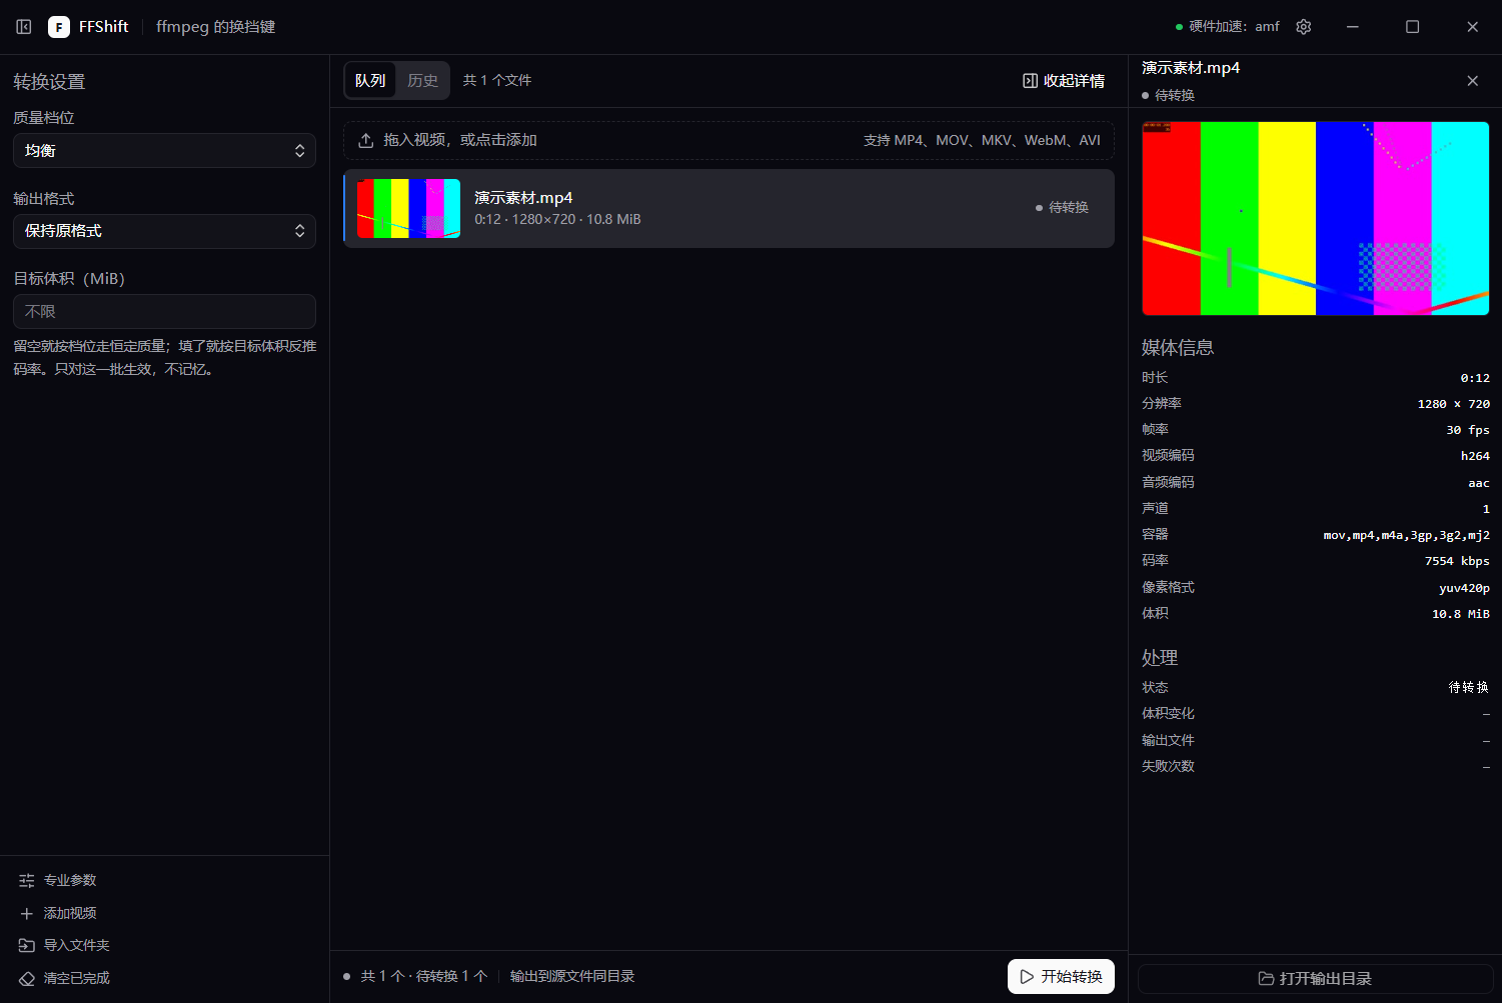
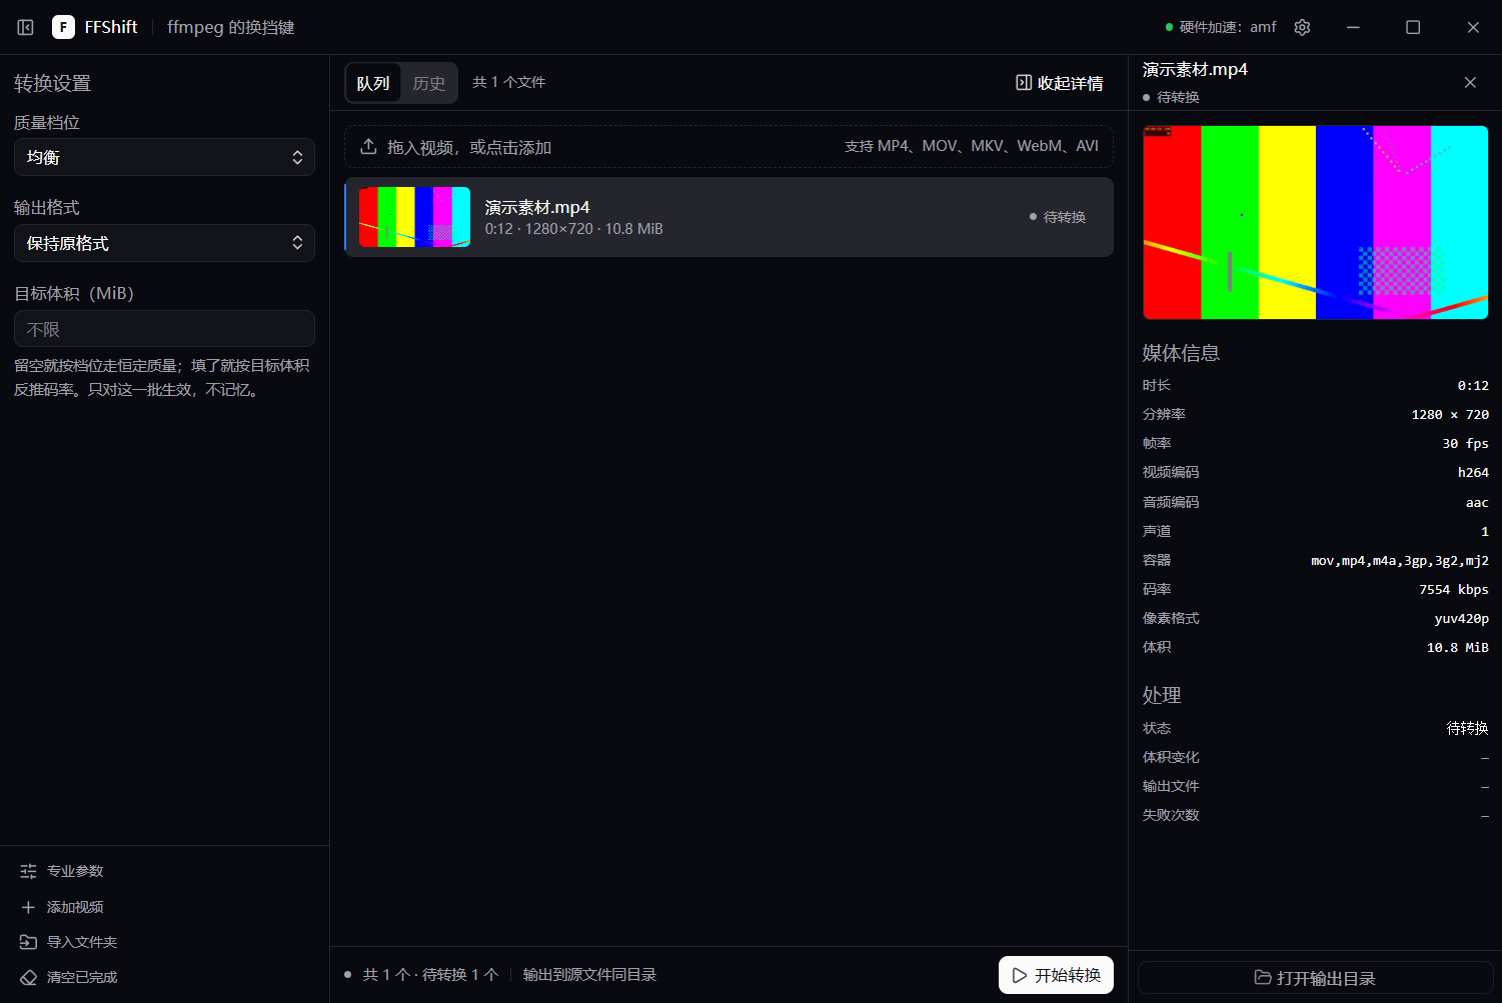
docs: 默认值定成浅黑 + 15px 的取舍与同步
ADR-021：浅黑加进来之后，只有主动去设置里翻的人才能看到它；作为默认才能让
每个新用户都拿到这套观感。字号提到 15 与之配套——浅黑的底比亮色深，字再小
一档就偏紧。

把"改默认值要动多少地方"记进反馈：两个常量之外还有 argv 兜底（那份重复不能
用 import 消掉，靠单测钉住）、三份文档、两条端到端断言。

openspec 用两条 MODIFIED 把设置规格里的默认值同步掉。本轮端到端套件按需求方
要求未执行，断言已更新并在 testing.md 里如实标注。

验证：pre-commit 文风检查通过；openspec 归档通过

Refs: ADR-021

diff --git a/docs/design-system.md b/docs/design-system.md
@@ -2,7 +2,7 @@
 
 > 构建界面前先读本文件：颜色、字体、间距、动效、组件规范都在这里，界面实现以它为准。
 > 上一版（v0.app 的三栏方案 + 四层底色）由本版整体替代，取舍过程见 `docs/decisions.md` ADR-015；
-> 主题从"只有暗色"改成"亮暗两套、默认亮色"，见 ADR-016。
+> 主题从"只有暗色"到"三套（默认浅黑）"的演变见 ADR-016 / ADR-020 / ADR-021。
 
 **来源与调整（如实标注）**
 
@@ -36,13 +36,13 @@ EnsoCode 把这条做到了极致，本项目直接跟进：
 
 ## 主题
 
-三套：**亮色（默认）**、**浅黑**、**暗色**。按明度从高到低排，切换入口在设置的「外观」里（ADR-018 之后顶栏没有切换按钮）。
+三套：**浅黑（默认）**、**亮色**、**暗色**。按明度从高到低排，切换入口在设置的「外观」里（ADR-018 之后顶栏没有切换按钮）。
 
 | 项 | 做法 |
 | --- | --- |
 | 切换方式 | 在 `<html>` 上挂类名：亮色是根状态（不带类）、浅黑挂 `dim`、暗色挂 `dark`。切换时**先摘干净再挂**（`src/lib/theme.ts` 的 `applyTheme`），不让两个类同时在 |
 | 令牌 | `:root` 亮色 + `.dim` + `.dark` 三段；命名完全一致，组件层一行都不用改 |
-| 默认 | 亮色。`DEFAULT_SETTINGS.theme = 'light'`，旧设置文件里没有这个字段时也回落成亮色 |
+| 默认 | 浅黑。`DEFAULT_SETTINGS.theme = 'dim'`，旧设置文件里没有这个字段时也回落成浅黑 |
 | 记忆 | 存进 `settings.json`；选过就记住 |
 | 首帧不闪 | 主进程在建窗口**之前**读设置，把主题塞进渲染进程的 argv（`--ffshift-theme=`），`main.tsx` 在 `createRoot` 之前挂类名。窗口底色也用当前主题的 `--background` 等价值 |
 | 组件层 | **不写 `dark:` 这类变体**。Tailwind 的 `dark:` 默认跟的是 `prefers-color-scheme`，也就是**系统**配色，不是应用里选的主题——需要随主题变的底色一律走语义令牌（如 `--field`） |
@@ -51,7 +51,7 @@ EnsoCode 把这条做到了极致，本项目直接跟进：
 前景从纯白收到 0.93，整体对比降一档，适合长时间盯着看。代价是**状态色必须重新挑**——
 底色变浅之后暗色那套的 `info` 压上去只有 3.76:1，不过线。
 
-没有"跟随系统"：默认亮色是产品要求，跟随系统与它冲突。要做就得是四态。
+没有"跟随系统"：跟着系统走的话，同一台机器今天亮明天暗，截图与文档对不上。要跟的话也是第四个选项。
 
 ## 全局 Token
 
@@ -129,17 +129,17 @@ Tailwind 的 `dark:` 默认跟的是 `prefers-color-scheme`（系统配色），
 
 ### 字体
 
-- 正文 `text-sm`（14px 基准下 = 12.25px）／元信息 `text-xs`（10.5px）／**小节标题** `text-label`（10px）／
-  **机器产生的数字** `text-metric`（11px） + `tabular-nums`。
+- 正文 `text-sm`（15px 基准下 = 13.1px）／元信息 `text-xs`（11.3px）／**小节标题** `text-label`（10.7px）／
+  **机器产生的数字** `text-metric`（11.8px） + `tabular-nums`。
 - `text-label` 与 `text-metric` 是 rem 令牌而不是 px：它们要跟着字号设置一起放大（ADR-019）。
   写死 px 的话，选"更大"档的人会看见正文大了、标签没大。
-- 按钮与下拉在窄窗口用 14px，`sm:` 以上收到 12.25px——桌面窗口远宽于 640px，所以实际生效的是后者。
+- 按钮与下拉在窄窗口用 15px，`sm:` 以上收到 13.1px——桌面窗口远宽于 640px，所以实际生效的是后者。
 - 数字统一 `font-variant-numeric: tabular-nums`：进度、体积、码率、耗时对齐后才能扫读。
 - 路径、编码名、日志用 `font-mono`（`JetBrains Mono` → `Consolas` → `ui-monospace`）。
 - 小节标题固定配方：`text-label font-medium tracking-wide text-muted-foreground uppercase`。
 
 **根字号 `--font-size-base` 是用户可调的**（设置 → 外观 → 字号，10–24px 逐像素可选，默认 14）。
-也就是 **1rem = 14px、0.25rem = 3.5px** 是默认值而不是常数：`h-8` = 28px、`gap-2` = 7px、`px-3` = 10.5px，
+也就是 **1rem = 15px、0.25rem = 3.75px** 是默认值而不是常数：`h-8` = 30px、`gap-2` = 7.5px、`px-3` = 11.25px，
 字号调大这些全部等比变大。所以写尺寸时先想清楚这一处**该不该跟着缩放**：
 
 | 该缩放（写 rem / Tailwind 数值） | 不该缩放（写死像素） |
@@ -161,7 +161,7 @@ Tailwind 的 `dark:` 默认跟的是 `prefers-color-scheme`（系统配色），
 
 ### 尺寸阶梯（本项目实际值）
 
-除标了「固定」的，其余都随字号设置等比缩放；括号里是 14px 基准下的像素值。
+除标了「固定」的，其余都随字号设置等比缩放；括号里是 15px 基准（默认）下的像素值。
 
 | 元素 | 尺寸 |
 | --- | --- |
@@ -257,7 +257,7 @@ Tailwind 的 `dark:` 默认跟的是 `prefers-color-scheme`（系统配色），
 2. **底栏只有一条**。上游是"输入框（Composer）+ 状态行（StatsLine）"两条，因为它的主动作是发消息。
    本项目的主动作（开始转换）只作用于队列，单独占一行会空掉半行，所以合成一条：
    左边是机器给的数字，右边是唯一的主按钮。
-3. **主题默认亮色**。上游 `:root` 是亮色、`.dark` 是暗色，但它的应用跟着系统走；
+3. **主题默认浅黑**。上游 `:root` 是亮色、`.dark` 是暗色，但它的应用跟着系统走；
    本项目是显式的两态切换，默认亮色（ADR-016）。
 
 ## 交付自检

diff --git a/openspec/changes/archive/2026-09-23-change-default-appearance/specs/settings/spec.md b/openspec/changes/archive/2026-09-23-change-default-appearance/specs/settings/spec.md
@@ -1,28 +1,4 @@
-# settings Specification
-
-## Purpose
-TBD - created by archiving change 2026-09-23-add-settings-page. Update Purpose after archive.
-
-## Requirements
-
-### Requirement: 设置页
-
-系统 SHALL 提供独立的设置界面，入口 SHALL 在主界面顶栏的右上角，并 SHALL 能返回转换界面。设置界面 SHALL 按分类组织内容：输出、参数预设、外观、关于。设置页与转换界面 SHALL 不同屏显示。
-
-#### Scenario: 打开设置
-
-- **WHEN** 用户在转换界面点击顶栏的设置按钮
-- **THEN** 界面切换到设置页，转换栏、队列与详情栏都不再显示
-
-#### Scenario: 返回
-
-- **WHEN** 用户点击设置页的返回按钮
-- **THEN** 回到转换界面，之前的队列与选中状态不变
-
-#### Scenario: 切换分类
-
-- **WHEN** 用户点击左侧的某个分类
-- **THEN** 右侧内容换成该分类，且当前分类有选中态
+## MODIFIED Requirements
 
 ### Requirement: 主题偏好的入口在设置里
 
@@ -53,29 +29,6 @@ TBD - created by archiving change 2026-09-23-add-settings-page. Update Purpose a
 - **WHEN** 用户第一次启动应用（没有任何设置文件）
 - **THEN** 界面按浅黑渲染
 
-### Requirement: 引擎信息在设置里
-
-系统 SHALL 在设置的「关于」分类里显示应用版本、ffmpeg 版本与硬件加速状态，并 SHALL 提供重新检测硬件加速的入口。主界面顶栏 SHALL 只显示硬件的简短状态与一个说明性圆点。
-
-#### Scenario: 重新检测硬件加速
-
-- **WHEN** 用户点击「重新检测」
-- **THEN** 硬件加速状态按最新结果刷新
-
-#### Scenario: 顶栏保持简短
-
-- **WHEN** 用户停留在转换界面
-- **THEN** 顶栏只出现圆点加一句短标签（如「硬件加速：amf」或「CPU 编码」），不出现完整版本串
-
-### Requirement: 输出位置在设置里改
-
-系统 SHALL 把输出目录的修改入口放在设置的「输出」分类里。主界面 SHALL 只以只读方式显示当前输出位置。
-
-#### Scenario: 改完之后回主界面
-
-- **WHEN** 用户在设置里选了输出目录并返回
-- **THEN** 主界面底栏显示新的输出位置
-
 ### Requirement: 界面字号
 
 系统 SHALL 在设置页的「外观」分类里提供界面字号选择，取值范围 SHALL 为 10–24px 的每一个整数，默认 15px。选择 SHALL 被记住。字号 SHALL 作为根字号生效，全站文字、间距与控件高度 SHALL 一起等比缩放。界面 SHALL 报出由基准派生出的可见字号（正文、元信息、小节标题）。
@@ -104,12 +57,3 @@ TBD - created by archiving change 2026-09-23-add-settings-page. Update Purpose a
 
 - **WHEN** 用户第一次启动应用（没有任何设置文件）
 - **THEN** 根字号为 15px
-
-### Requirement: 外壳尺寸不随字号变化
-
-左右两栏宽度、标题栏高度与窗口最小尺寸 SHALL NOT 随字号变化——只有内容缩放。字号放大而窗口偏小时，顶栏与底栏 SHALL 通过截断文字降级，SHALL NOT 把文字压成一列一个字。
-
-#### Scenario: 最大字号配最小窗口
-
-- **WHEN** 用户在 940×600 的窗口里把字号调到 24px
-- **THEN** 窗口最小尺寸仍是 940×600，两栏宽度不变，顶栏与底栏文字被截断但按钮完整可点

diff --git a/docs/decisions.md b/docs/decisions.md
@@ -28,6 +28,7 @@
 | ADR-018 | 主界面与设置页分工：偏好搬进设置页，主界面只留转换 | 已接受 |
 | ADR-019 | 字号调的是根字号；外壳尺寸不跟着走 | 已接受 · 同日修订 |
 | ADR-020 | 加浅黑主题；表单底色改成 `--field` 令牌 | 已接受 |
+| ADR-021 | 产品默认值定成浅黑 + 15px | 已接受 |
 
 ---
 
@@ -402,6 +403,27 @@
   - 浅黑的状态色：四组全部提亮一档（destructive 0.704→0.76、success 0.723→0.76、warning 0.769→0.78、info 0.623→0.75）。
     约束比原来严一档：不只要过页面底，还要过**选中行底色**（`bg-muted`）——状态标签就长在那一行上。
     按这条量，连原来的暗色主题都有个漏网的（`info` 在选中行上 4.03:1），留档待评估。
+
+---
+
+## ADR-021 · 产品默认值定成浅黑 + 15px
+
+- **日期**：2026-09-23
+- **状态**：已接受。改的是 ADR-016（默认亮色）与 ADR-019（默认 14px）定下的两个默认值；两套主题与字号范围本身不变。
+- **背景**：需求方把两项默认值定下来：字号 15px、主题浅黑。
+- **决策**：`FONT_SIZE_DEFAULT` 14 → 15、`DEFAULT_SETTINGS.theme` light → dim。设置文件里**已存的值不受影响**——这只改"没有设置文件时的那一眼"。
+- **备选**：
+  - 把暗色的底直接提亮、只留两套主题：近黑有它的用途（夜里、OLED 屏），而且浅黑作为独立选项已经加进来了；
+  - 默认字号直接顶到 16px：与浅黑配其实也成立，但 15px 是"比原来明显大、又不至于让三栏显得松"的中间值，需求方点的是 15。
+- **理由**：浅黑加进来之后，只有主动去设置里翻的人才能看到它；作为默认才能让每个新用户都拿到这套观感。
+  字号提到 15 与之配套——浅黑的底比亮色深，字再小一档就偏紧。
+- **代价**：三份文档（design-system / ui-spec / 测试断言）里的默认值要一起改；亮色从"打开就是"降级成"要去设置里选"。
+- **反馈**：
+  - **改默认值要动的地方比想象的多**：两个常量之外，还有 argv 兜底（`theme.ts`）、三份文档、两条端到端断言。
+    而且有两处是"看起来一样的重复"：`theme.ts` 的兜底与 `DEFAULT_SETTINGS.theme`——前者不能 import 后者
+    （preload 会因此拖上整条 settings 依赖链），所以那份重复靠一条单测钉住，改成不同步会立刻红。
+  - 本轮端到端套件按需求方要求没有执行；对默认值的断言（首帧类名、根字号）已更新，
+    下次跑套件时一并验证。typecheck、单测、build 与一次快速冒烟（窗口能建、页面能加载）都已通过。
 
 ---
 

diff --git a/docs/ui-spec.md b/docs/ui-spec.md
@@ -182,9 +182,9 @@ Windows 桌面视频格式转换器。用户把视频拖进来，选一个质量
 校验结果显示在参数区**顶部并吸顶**：参数表单有一屏多高，错误提示放底部等于没有。
 同时主界面的「开始转换」会被禁用——错误提示在另一屏，主界面必须自己把人拦住。
 
-**外观**：主题（亮色 / 浅黑 / 暗色，分段切换，按明度排序）与字号（10–24px 下拉，默认 14）。主题默认亮色；浅黑是偏灰的一套——底比暗色浅、文字不用纯白，长时间看没那么累。
+**外观**：主题（浅黑 / 亮色 / 暗色，分段切换，按明度排序）与字号（10–24px 下拉，默认 15）。主题默认浅黑；亮色与暗色都在。
 字号调的是**根字号**：全站文字、间距、控件高度一起等比缩放，但左右两栏宽度、标题栏高度与窗口最小尺寸不变——外壳固定、只有内容缩放。
-选过记住，重启首帧即正确。字号下面一行报出派生的三个字号，免得用户对着"基准 14px"猜正文到底多大。
+选过记住，重启首帧即正确。字号下面一行报出派生的三个字号，免得用户对着"基准 15px"猜正文到底多大。
 
 **关于**：应用版本、ffmpeg 完整版本串（整宽、可换行）、硬件加速状态（＋「重新检测」）。
 
@@ -198,7 +198,7 @@ Windows 桌面视频格式转换器。用户把视频拖进来，选一个质量
 6. **设置记忆**：档位、输出格式、输出目录、预设、主题、**专业参数**都会保存，下次启动恢复
 7. **不覆盖源文件**：输出路径是"原名 + `.ffshift` 后缀"
 8. **参数配置**：在设置页里；「不干预」永远是默认项；预设可存、可删、可导入导出；有错时禁用主界面的「开始转换」
-9. **主题与字号**：主题三套（亮色 / 浅黑 / 暗色）、**默认亮色**；字号 10–24px、**默认 14**。两者都在设置的「外观」里，选过记住，启动那一刻就是对的，不会先闪一下或先小后大地跳一下
+9. **主题与字号**：主题三套（浅黑 / 亮色 / 暗色）、**默认浅黑**；字号 10–24px、**默认 15**。两者都在设置的「外观」里，选过记住，启动那一刻就是对的，不会先闪一下或先小后大地跳一下
 10. **两屏不混**：设置页里没有队列，转换界面里没有设置表单
 
 ## 5. 渲染需要的数据字段

diff --git a/docs/testing.md b/docs/testing.md
@@ -151,3 +151,4 @@ $bytes = [System.IO.File]::ReadAllBytes("fixture_10s.mp4")[0..1048575]
 | 2026-09-23 | `0b1883b` ui: 字号改成 10–24px 下拉，外壳尺寸不再跟着缩放 | 16 个文件 | 待人工确认（验证信息：typecheck、build 通过；单测 258 条全绿；e2e 17 条全绿（64.3s）；） <!-- commit:0b1883b --> |
 | 2026-09-23 | 加浅黑主题；拆掉 `dark:` 变体；修好失效的截图开关 | 见 ADR-020 | 待人工确认（验证信息：typecheck、build 通过；单测 257 条全绿（主题三态、窗口底色等价值、argv 兜底）；e2e 17 条全绿（68.3s，主题用例扩到三套并断言类名不串台）；三套主题各截图人工看过，顺带发现并修掉"标着暗色其实是亮色"那张 README 图） |
 | 2026-09-23 | `fa64163` ui: 加浅黑主题，表单底色改成语义令牌 | 10 个文件 | 待人工确认（验证信息：typecheck、build 通过；单测 257 条全绿；e2e 17 条全绿（68.3s，主题用） <!-- commit:fa64163 --> |
+| 2026-09-23 | 默认值定成浅黑 + 15px | 见 ADR-021 | 待人工确认（验证信息：typecheck、build 通过；单测 258 条全绿（默认值断言更新）；快速冒烟通过；三套主题与设置页截图重拍。**端到端套件本轮按需求方要求未执行**，对默认值的断言已更新，下次跑套件时一并验证） |

diff --git a/README.md b/README.md
@@ -6,15 +6,15 @@ Windows 优先的桌面视频格式转换器。界面用 Electron + React + Type
 
 ## 界面
 
-主界面只放"这次要转成什么"——档位、输出格式、目标体积：
+主界面只放"这次要转成什么"——档位、输出格式、目标体积。默认浅黑主题、15px 字号：
 
 ![FFShift 主界面](docs/screenshots/main.png)
 
-浅黑主题（偏灰，长时间看没那么累）：
+亮色主题：
 
-![FFShift 浅黑主题](docs/screenshots/dim.png)
+![FFShift 亮色主题](docs/screenshots/light.png)
 
-暗色主题：
+暗色主题（近黑，对比拉得满）：
 
 ![FFShift 暗色主题](docs/screenshots/dark.png)
 
@@ -39,7 +39,7 @@ Windows 优先的桌面视频格式转换器。界面用 Electron + React + Type
 - **过程可见**：百分比、剩余时间、速度，随时取消并清理半成品
 - **出错说人话**：磁盘满、目录不可写、格式不兼容、文件损坏各有对应说明
 - **专业参数**：20 项可调参数 + 预设管理，给懂行的人一个入口
-- 设置记忆、三套主题（亮色 / 浅黑 / 暗色）、10–24px 可调界面字号、Windows 安装包
+- 设置记忆、三套主题（默认浅黑）、10–24px 可调界面字号（默认 15px）、Windows 安装包
 
 逐条状态见 `docs/testing.md` 的冒烟清单（未实测的条目如实标注）。
 

diff --git a/openspec/changes/archive/2026-09-23-change-default-appearance/proposal.md b/openspec/changes/archive/2026-09-23-change-default-appearance/proposal.md
@@ -1,0 +1,18 @@
+## Why
+
+需求方把两项产品默认值定下来：默认字号 15px（原 14px）、默认主题浅黑（原亮色）。
+
+浅黑作为默认是它加进来之后顺理成章的一步——当初加它的理由就是"底色柔和、长时间看不累"，作为默认才能让每个新用户都拿到这套观感，而不是只有主动去设置里翻的人。字号提到 15px 与之配套：浅黑的底色比亮色深，字再小一档就偏紧了。
+
+## What Changes
+
+- `DEFAULT_SETTINGS.theme`：`light` → `dim`
+- `FONT_SIZE_DEFAULT`：`14` → `15`
+- 设置文件里已存的值不受影响——这只改"没有设置文件时的那一眼"
+- 文档与界面里的默认值说明同步
+
+## 影响
+
+- 旧设置文件里显式写了 `light` / `14` 的用户不受影响（那是他们选过的）
+- 只有"从没动过设置"的用户会看到变化：首屏变成浅黑、字号大一点
+- 首帧渲染走 argv 那条路，逻辑不变；窗口底色的等价值三套都在，跟着默认值自动切

diff --git a/openspec/changes/archive/2026-09-23-change-default-appearance/tasks.md b/openspec/changes/archive/2026-09-23-change-default-appearance/tasks.md
@@ -1,0 +1,20 @@
+## 1. 默认值
+
+- [x] `FONT_SIZE_DEFAULT` 14 → 15
+- [x] `DEFAULT_SETTINGS.theme` light → dim
+- [x] argv 解析的兜底与上面两个一致（有单测钉住）
+
+## 2. 测试与文档
+
+- [x] 单测里对默认值的断言同步
+- [x] 端到端里对默认值的断言同步
+- [x] 文档（design-system / ui-spec / README）同步
+
+## 3. 验证
+
+- [x] `npm run typecheck`
+- [x] `npm run test:unit`
+- [x] `npm run build`
+- [x] 三套主题各截一张图，确认默认那一套真的生效
+- [x] 端到端套件本轮按需求方要求未执行；对默认值的断言已更新，下次跑套件时一并验证
+
